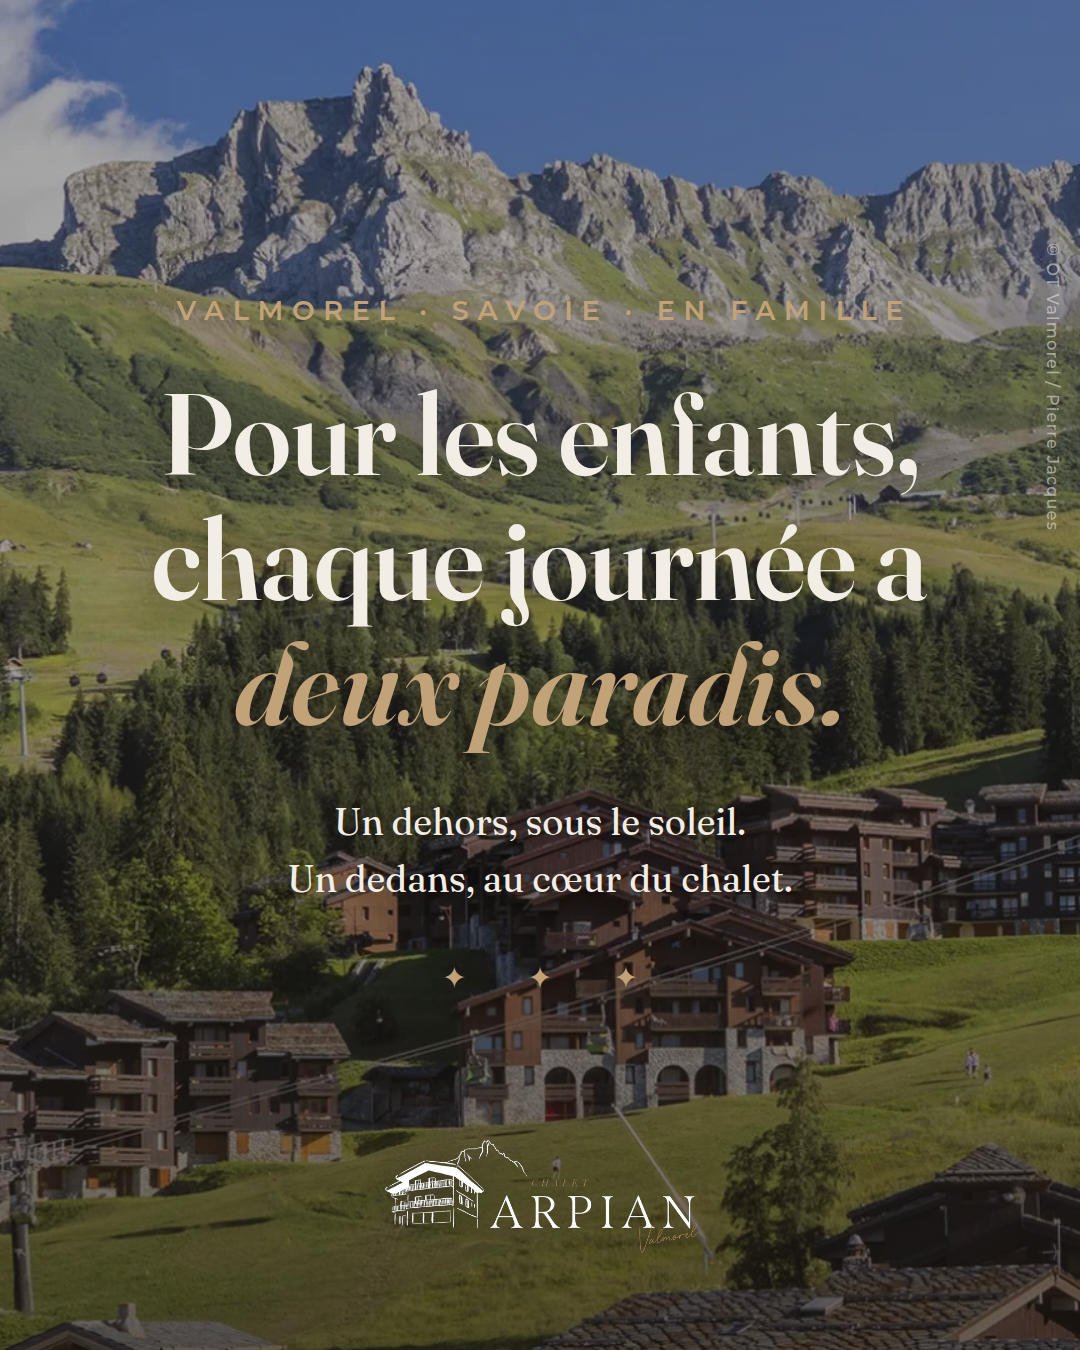
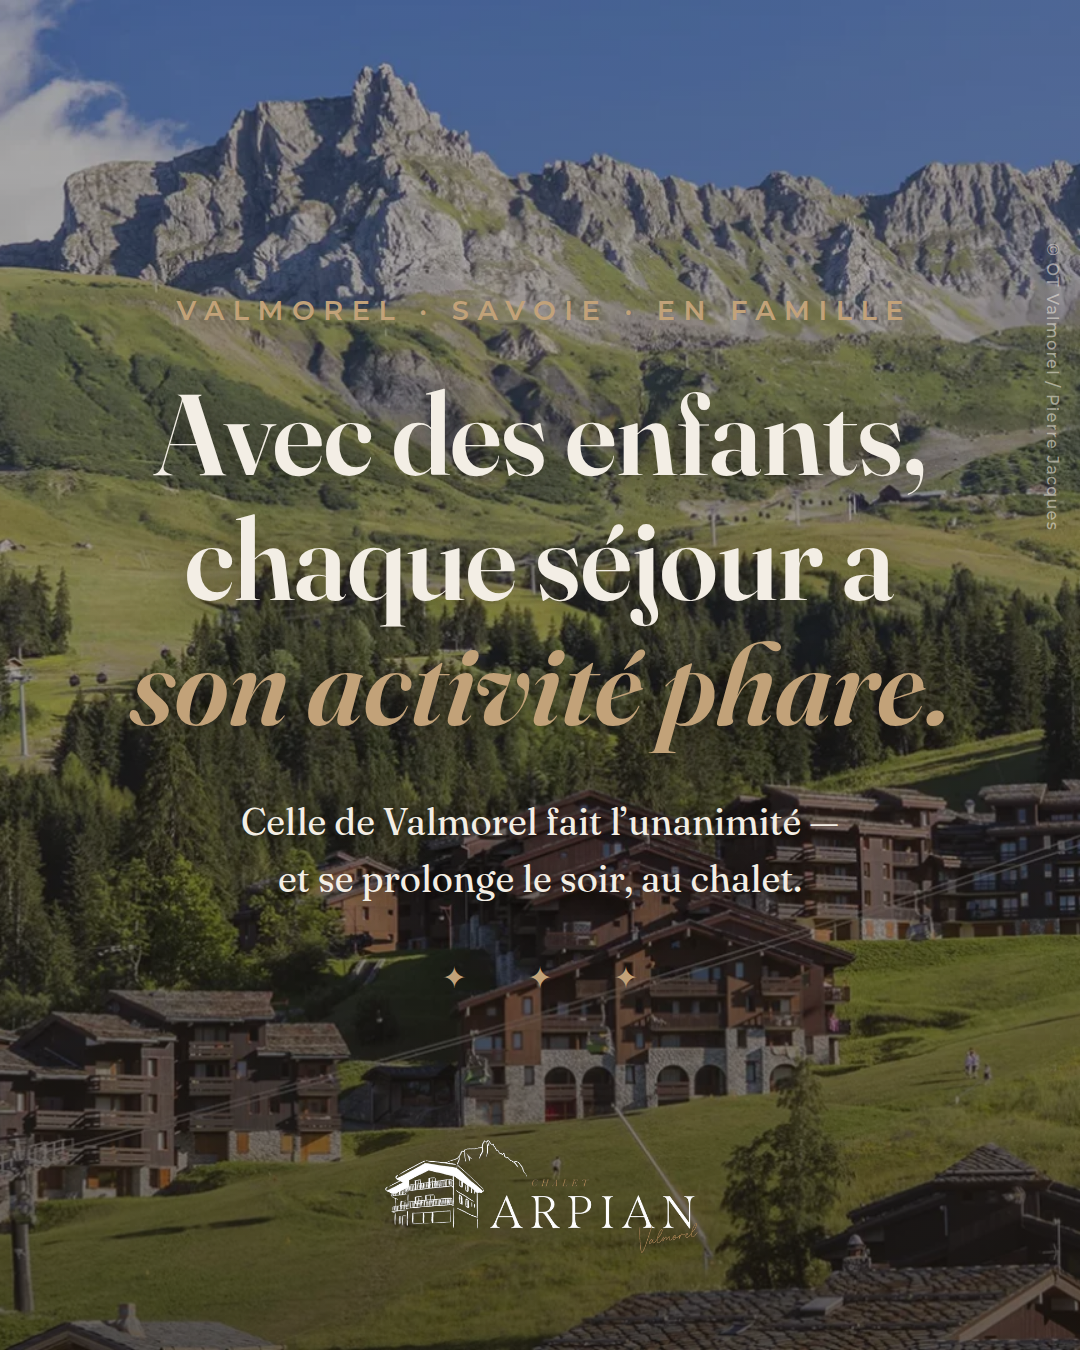
Rework cover copy: family vacations, tease Valmorel flagship activity
La couverture passe de « deux paradis » a « Avec des enfants, chaque
sejour a son activite phare. », avec un sous-titre qui annonce la
revelation d'Okapy (slide 01) et le prolongement au chalet (slide 02)

Claude-Session: https://claude.ai/code/session_01RLUktmYZh4ZTRRqprvaJEy

Changed region(s): [[0.1222, 0.28, 0.8861, 0.56], [0.2139, 0.5911, 0.7639, 0.6844]]

diff --git a/projects/arpian/instagram-carousel/slide-00-intro.html b/projects/arpian/instagram-carousel/slide-00-intro.html
@@ -89,8 +89,8 @@
 
     <div class="content">
       <div class="kicker">Valmorel &middot; Savoie &middot; En famille</div>
-      <h1>Pour les enfants,<br>chaque journ&eacute;e a<br><span class="accent">deux paradis.</span></h1>
-      <div class="sub">Un dehors, sous le soleil.<br>Un dedans, au c&oelig;ur du chalet.</div>
+      <h1>Avec des enfants,<br>chaque s&eacute;jour a<br><span class="accent">son activit&eacute; phare.</span></h1>
+      <div class="sub">Celle de Valmorel fait l&rsquo;unanimit&eacute; &mdash;<br>et se prolonge le soir, au chalet.</div>
       <div class="stars">&#10022;&nbsp;&#10022;&nbsp;&#10022;</div>
     </div>
 
